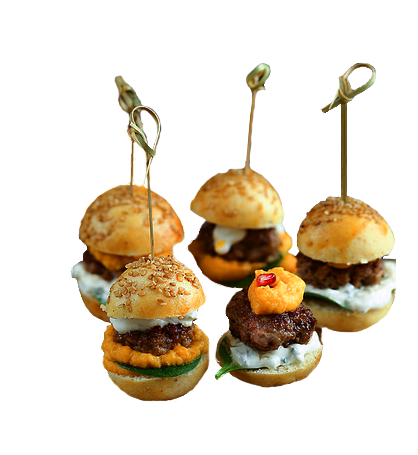
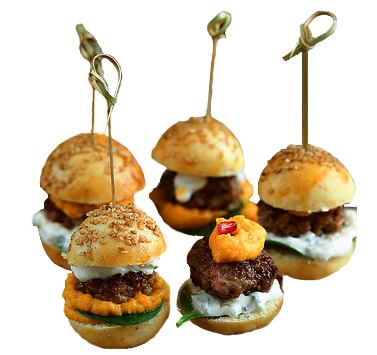
home bug solved

diff --git a/source/stylesheets/components/_header1.scss b/source/stylesheets/components/_header1.scss
@@ -5,7 +5,7 @@
   display: flex;
   justify-content: space-between;
   padding: 6rem;
-  padding-top: 14rem;
+  padding-top:  27vh;
   position: relative;
 
   @include respond(portrait) {
@@ -17,7 +17,7 @@
   }
 
   h1{
-  font-size: 6rem;
+  font-size: 10vh;
   font-weight: 700;
   color: black;
     @include respond(phone) {
@@ -26,7 +26,7 @@
   }
 
   h2{
-    font-size: 2.8rem;
+    font-size: 4vh;
     font-weight: 300;
     color: black;
     @include respond(phone) {
@@ -47,8 +47,10 @@
 
   &__image{
     position: absolute;
-    right: 0;
+    right: 10%;
     width: 55rem;
+    max-width: 66vh;
+
     @include respond(portrait) {
      width: 57%;
     right: auto;

diff --git a/source/stylesheets/components/_button.scss b/source/stylesheets/components/_button.scss
@@ -42,8 +42,8 @@
   }
 
   &--header{
-    margin-top: 4rem;
-    padding: 3rem;
+    margin-top: 6vh;
+    padding: 4vh;
     width: 40rem;
     @include respond(phone) {
      width: auto;
